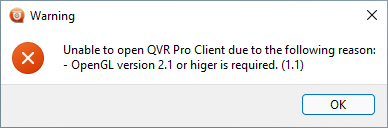
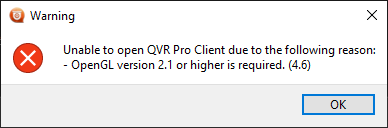
Updates to proofreading completed documents

Changed region(s): [[0.0, 0.0, 1.0, 1.0], [0.5258, 0.4688, 0.8041, 0.5625], [0.0309, 0.3125, 0.1237, 0.5938]]

diff --git a/docs/QVRProClient/opengl_error.md b/docs/QVRProClient/opengl_error.md
@@ -2,22 +2,34 @@
 sidebar_position: 1
 ---
 
-# OpenGL error occurs when I open QVR Pro Client
+# How do I fix the “OpenGL version 2.1 or higher is required.” error?
 
-When opening QVR Pro Client <font color="red">**"OpenGL version 2.1 or higher is required. (1.1)"**</font> error message occurs:<br/>
+When attempting to open QVR Pro Client, the <font color="red">**"OpenGL version 2.1 or higher is required."**</font> error message appears:<br/>
 <img src="/assets/qvrproclient/opengl_error.png"/>
 
-This error indicates that your graphics card is too old and does not support OpenGL 2.1. It is recommended that you replace the graphics card.<br/>
-If you still need to open QVR Pro Client, the following methods may help temporarily operate in this old environment:
+#### Causes
+
+If this is your first time using QVR Pro Client, then either your graphics driver is out of date or your graphics device does not support OpenGL 2.1. You should check what version of OpenGL your graphics device supports.
+
+If you are attempting to use QVR Pro Client on a remote desktop or virtual machine, then your remote desktop client or virtualization application may not support OpenGL.
+
+If you have previously been using QVR Pro Client with no error and this error message suddenly appears, then you should try reinstalling your graphics card driver.
+
+#### Workaround
+
+QVR Pro Client can be used in software rendering mode, which ensures compatibility but at the cost of lower performance. To enable software rendering:
+
+1. Right-click on the shortcut of QVR Pro Client and click **"Properties"**.
+2. At the end of **"Target"** add **" -swrender"**.
+3. Click **"OK"**.<br/>
+   <img src="/assets/qvrproclient/edit_run_command.png" width="50%"/>
+
+When you open QVR Pro Client using this shortcut, the top-left corner will display "SW Render".
+
+![](/assets/qvrproclient/sw_render.png)
 
 :::note
 
-Using software rendering mode will reduce the streaming performance of the playback, which may result in an unsmooth screen.
+Using software rendering mode will reduce streaming performance, which may result in unsmooth playback.
 
 ::::
-
-- Right-click on the link of QVR Pro Client and click **"Properties"**.
-- Add **" -swrender"** at the end of **"Targe"** (a space before the minus sign), and press **"OK"** when finished.<br/>
-<img src="/assets/qvrproclient/edit_run_command.png" width="50%"/>
-- Double-click on the shortcut of QVR Pro Client, the upper left corner will display the words **"SW Render"**.<br/>
-<img src="/assets/qvrproclient/sw_render.png" width="80%"/>
